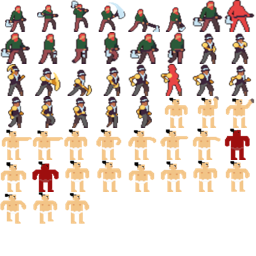
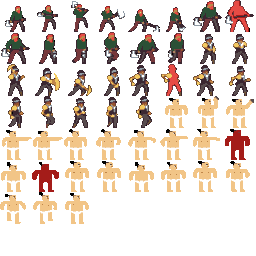
Definido funcao de pallete

diff --git a/get_palette.py b/get_palette.py
@@ -1,18 +1,16 @@
 from PIL import Image
 
-# Carregar imagem
-im = Image.open('tile_objects.png')
+def get_palette(image):
 
-# Extrair paleta de cores
-palette = im.getpalette()
+    im = Image.open(image)
+    palette = im.getpalette()
 
-# Converter paleta para o formato RGB888 compatível com Pyxel
-rgb_palette = []
-for i in range(0, len(palette), 3):
-    r, g, b = palette[i], palette[i+1], palette[i+2]
-    rgb888 = (r << 16) | (g << 8) | b
-    rgb_palette.append(rgb888)
+    rgb_palette = []
+    for i in range(0, len(palette), 3):
+        r, g, b = palette[i], palette[i+1], palette[i+2]
+        rgb888 = (r << 16) | (g << 8) | b
+        rgb_palette.append(rgb888)
 
-# Mostrar paleta de cores compatível com Pyxel em uma lista
-print(rgb_palette)
+
+    return rgb_palette
 

diff --git a/main.py b/main.py
@@ -4,13 +4,14 @@ from player import Player
 from objects import Objects
 from event import Event
 from input import Check_key
+from get_palette import get_palette
 
 game_witht = 320
 game_height = 160
 
 pyxel.init(game_witht, game_height, "Leo Broklin", 30)
-pyxel.colors.from_list([4194304, 8334906, 7946048, 3830606, 2455405, 6515302, 10970933, 8549957, 4043960, 8499607, 15112291, 14589748, 1822680, 13281917, 13152400, 14397277, 14992782])
 
+pyxel.colors.from_list(get_palette('tile_player.png'))
 
 tile_map_player = pyxel.image(0)
 tile_map_player.load(0, 0, "tile_player.png")
